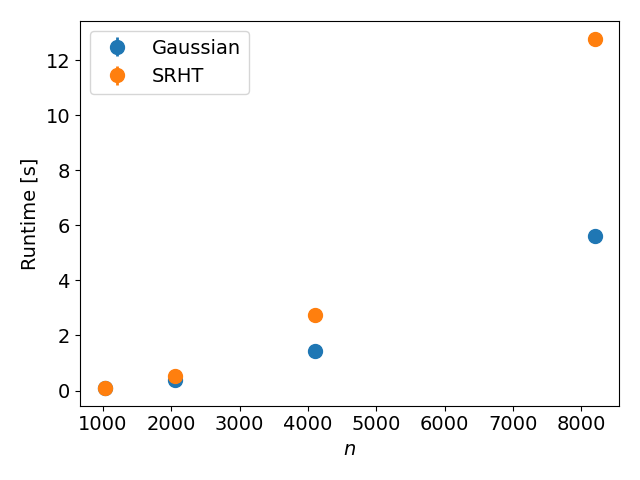
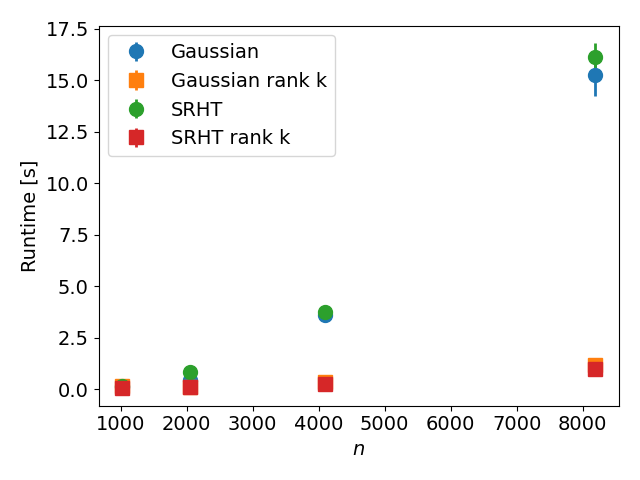
Updated plot.py file and prepared for cluster..

diff --git a/code/plot.py b/code/plot.py
@@ -10,9 +10,9 @@ plt.rcParams.update({'lines.linewidth': 2, 'lines.markersize': 10})
 plt.rcParams.update({'figure.autolayout': True})
 
 def h5_to_dict(h5_group): # This function is Chat gpt output
-    """
+    '''
     Recursively convert an h5py group or file into a nested dictionary.
-    """
+    '''
     result = {}
     for key, item in h5_group.items():
         if isinstance(item, h5py.Group):  # If the item is a group, recurse
@@ -53,6 +53,7 @@ def l_variation( seq_data_dict ):
     '''
     ls = seq_data_dict['parameters']['ls']
     n = seq_data_dict['parameters']['n']
+    k = seq_data_dict['parameters']['k']
     algos = list(seq_data_dict.keys())
     algos.remove('parameters')
     fig, ax = plt.subplots()
@@ -82,16 +83,23 @@ def n_variation( seq_data_dict ):
     '''
     ns = seq_data_dict['parameters']['ns']
     l = seq_data_dict['parameters']['l']
+    k = seq_data_dict['parameters']['k']
     algos = list(seq_data_dict.keys())
     algos.remove('parameters')
     fig, ax = plt.subplots()
     for algo in algos:
-        means = np.zeros((len(ns)))
-        stds = np.zeros((len(ns)))
+        sketch_means = np.zeros((len(ns)))
+        sketch_stds = np.zeros((len(ns)))
+        krank_means = np.zeros((len(ns)))
+        krank_stds = np.zeros((len(ns)))
         for i,n in enumerate(ns):
-            means[i] = seq_data_dict[algo][f'n={n}_l={l}_mean']
-            stds[i] = seq_data_dict[algo][f'n={n}_l={l}_std']
-        ax.errorbar(ns, means, yerr=stds, fmt='o', label=f'{algo}')
+            lab = f'n={n}_l={l}_k={k}'
+            sketch_means[i] = seq_data_dict[algo][f'sketch_ts_{lab}_mean']
+            sketch_stds[i] = seq_data_dict[algo][f'sketch_ts_{lab}_std']
+            krank_means[i] = seq_data_dict[algo][f'k_rank_ts_{lab}_mean']
+            krank_stds[i] = seq_data_dict[algo][f'k_rank_ts_{lab}_std']
+        ax.errorbar(ns, sketch_means, yerr=sketch_stds, fmt='o', label=f'{algo}')
+        ax.errorbar(ns, krank_means, yerr=krank_stds, fmt='s', label=f'{algo} rank k')
     ax.set_xlabel('$n$')
     ax.set_ylabel('Runtime [s]')
     ax.legend()
@@ -106,6 +114,8 @@ def cores_variation( par_data_dict, ns_cores ):
     n_large = par_data_dict['parameters']['n_large']
     l_small = par_data_dict['parameters']['l_small']
     l_large = par_data_dict['parameters']['l_large']
+    k_small = par_data_dict['parameters']['k_small']
+    k_large = par_data_dict['parameters']['k_large']
     algos = ['SRHT', 'Gaussian']
     fmts = ['o', 's']
     cols = ['tab:blue', 'tab:orange']
@@ -116,12 +126,14 @@ def cores_variation( par_data_dict, ns_cores ):
         means_large = np.zeros((len(ns_cores)))
         stds_large = np.zeros((len(ns_cores)))
         for i, n_cores in enumerate(ns_cores):
-            means_small[i] = par_data_dict[f'{algo}_cores={n_cores}'][f'n={n_small}_l={l_small}_mean']
-            stds_small[i] = par_data_dict[f'{algo}_cores={n_cores}'][f'n={n_small}_l={l_small}_std']
-            means_large[i] = par_data_dict[f'{algo}_cores={n_cores}'][f'n={n_large}_l={l_large}_mean']
-            stds_large[i] = par_data_dict[f'{algo}_cores={n_cores}'][f'n={n_large}_l={l_large}_std']
-        ax.errorbar(ns_cores, means_small, yerr=stds_small, fmt=fmts[j], label=f'n={n_small}, l={l_small}', color=cols[0])
-        ax.errorbar(ns_cores, means_large, yerr=stds_large, fmt=fmts[j], label=f'n={n_large}, l={l_large}', color=cols[1])
+            lab_small = f'n={n_small}_l={l_small}_k={k_small}'
+            lab_large = f'n={n_large}_l={l_large}_k={k_large}'
+            means_small[i] = par_data_dict[f'{algo}_cores={n_cores}'][f'sketch_ts_{lab_small}_mean']
+            stds_small[i] = par_data_dict[f'{algo}_cores={n_cores}'][f'sketch_ts_{lab_small}_std']
+            means_large[i] = par_data_dict[f'{algo}_cores={n_cores}'][f'sketch_ts_{k_large}_mean']
+            stds_large[i] = par_data_dict[f'{algo}_cores={n_cores}'][f'sketch_ts_{k_large}_std']
+        ax.errorbar(ns_cores, means_small, yerr=stds_small, fmt=fmts[j], label=f'{lab_small}', color=cols[0])
+        ax.errorbar(ns_cores, means_large, yerr=stds_large, fmt=fmts[j], label=f'{lab_large}', color=cols[1])
     ax.set_xlabel('Number of cores')
     ax.set_ylabel('Runtime [s]')
     ax.set_title('Gaussian: circles, SRHT: squares')
@@ -160,4 +172,9 @@ if __name__ == '__main__':
     seq_data_dict, par_data_dict = import_data()
     l_variation( seq_data_dict )
     n_variation( seq_data_dict )
-    #cores_variation( par_data_dict, [4] )
+    cores_variation( par_data_dict, [4,16] )
+
+#  with h5py.File(f'{output_file}.h5', 'r') as f:
+#       print(f['Gaussian'].keys())
+#        print(f['SRHT'].keys())
+        

diff --git a/code/parallel.py b/code/parallel.py
@@ -39,6 +39,7 @@ def time_k_rank( A_ij, n, l, k, sketch_type, seed_factor, comm, n_rep ):
     k_rank_runtime = np.empty(n_rep)
     for  i in range(n_rep):
         BC = None
+        comm.Barrier()
         if size == 1:
             sketch_runtimes[i], BC = time_function( sketch_fun['sequential'], A_ij, n, l, seed_factor )
         else:
@@ -48,7 +49,7 @@ def time_k_rank( A_ij, n, l, k, sketch_type, seed_factor, comm, n_rep ):
         if size == 1:
             k_rank_runtime[i], _ = time_function( k_rank_fun['sequential'], B, C, n, k, return_A_k=False )
         else:
-            k_rank_runtime[i], _ = time_function( k_rank_fun['parallel'], B, C, n, k, comm, return_A_k=True )
+            k_rank_runtime[i], _ = time_function( k_rank_fun['parallel'], B, C, n, k, comm, return_A_k=False )
         comm.Barrier()
 
     if size == 1:
@@ -172,7 +173,8 @@ def seq_rank_k_approx( B, C, n, k, alternative=False, return_A_k=True ):
     S_2 = S_2[:k]
     S_2.reshape(1,-1)
 
-    return (U_hat * S_2) @ U_hat.T
+    if return_A_k:
+        return (U_hat * S_2) @ U_hat.T
 
 
 def rank_k_approx( B, C, n, k, comm, return_A_k=True ):
@@ -227,8 +229,6 @@ def rank_k_approx( B, C, n, k, comm, return_A_k=True ):
         # Frobenius norm of the error. We therefore do it in parallel.
         return A_k
     
-    return
-
 
 
 if __name__ == '__main__':

diff --git a/code/sequential_performance.py b/code/sequential_performance.py
@@ -31,11 +31,10 @@ def analysis( A_ij, n, l, k, sketch_type, seed_factor, comm, n_rep, output_file 
 if __name__ == '__main__':
     n_rep = 2
 
-    log2_l_min = 6
+    log2_l_min = 7
     log2_l_max = 10
     log2_ls = np.arange(log2_l_min, log2_l_max+1).astype(int)
     ls = 2 ** log2_ls
-    ks = ls // 2
     n = 2 ** (log2_l_max+2)
 
     log2_n_min = 10
@@ -43,7 +42,7 @@ if __name__ == '__main__':
     log2_ns = np.arange(log2_n_min, log2_n_max+1).astype(int)
     ns = 2 ** log2_ns
     l = 2 ** (log2_n_min-2)
-    k = l // 2
+    k = l // 3
 
     seed_factor = 1234
 
@@ -69,11 +68,6 @@ if __name__ == '__main__':
     
     #A = synthetic_matrix(n, n//4, 'fast', 'exponential') 
     A = np.random.normal(size=(n, n))
-    for l_,k_ in zip(ls,ks):
-        analysis(A, n, l_, k_, 'Gaussian', seed_factor, comm, n_rep, output_file)
-        analysis(A, n, l_, k_, 'SRHT', seed_factor, comm, n_rep, output_file)
-
-#  with h5py.File(f'{output_file}.h5', 'r') as f:
-#       print(f['Gaussian'].keys())
-#        print(f['SRHT'].keys())
-        
+    for l_ in ls:
+        analysis(A, n, l_, k, 'Gaussian', seed_factor, comm, n_rep, output_file)
+        analysis(A, n, l_, k, 'SRHT', seed_factor, comm, n_rep, output_file)

diff --git a/code/parallel_performance.py b/code/parallel_performance.py
@@ -14,10 +14,12 @@ n_rep = 3
 log2_n_small = 10
 n_small = 2 ** log2_n_small
 l_small = 2 ** (log2_n_small-3)
+k_small = l_small // 4
 
 log2_n_large = 12
 n_large = 2 ** log2_n_large
 l_large = 2 ** (log2_n_large-3)
+k_large = l_large // 4
 
 output_file = '../output/parallel_performance'
 if rank == 0:
@@ -32,9 +34,11 @@ if rank == 0:
             f['parameters'].create_dataset('n_large', data=n_large)
             f['parameters'].create_dataset('l_small', data=l_small)
             f['parameters'].create_dataset('l_large', data=l_large)
+            f['parameters'].create_dataset('k_small', data=k_small)
+            f['parameters'].create_dataset('k_large', data=k_large)
 
 r_small = 3 * n_small // 4
-k_small = l_small // 4
+
 A_ij = synthetic_matrix(n_small, r_small, 'fast', 'exponential')
 if size > 1:
     A_ij = split_matrix(A_ij, comm)
@@ -42,7 +46,6 @@ analysis(A_ij, n_small, l_small, k_small, 'Gaussian', seed_factor, comm, n_rep, 
 analysis(A_ij, n_small, l_small, k_small, 'SRHT', seed_factor, comm, n_rep, output_file)
 
 r_large = 3 * n_large // 4
-k_large = l_large // 4
 B_ij = synthetic_matrix(n_large, r_large, 'fast', 'exponential')
 if size > 1:
     B_ij = split_matrix(B_ij, comm)
